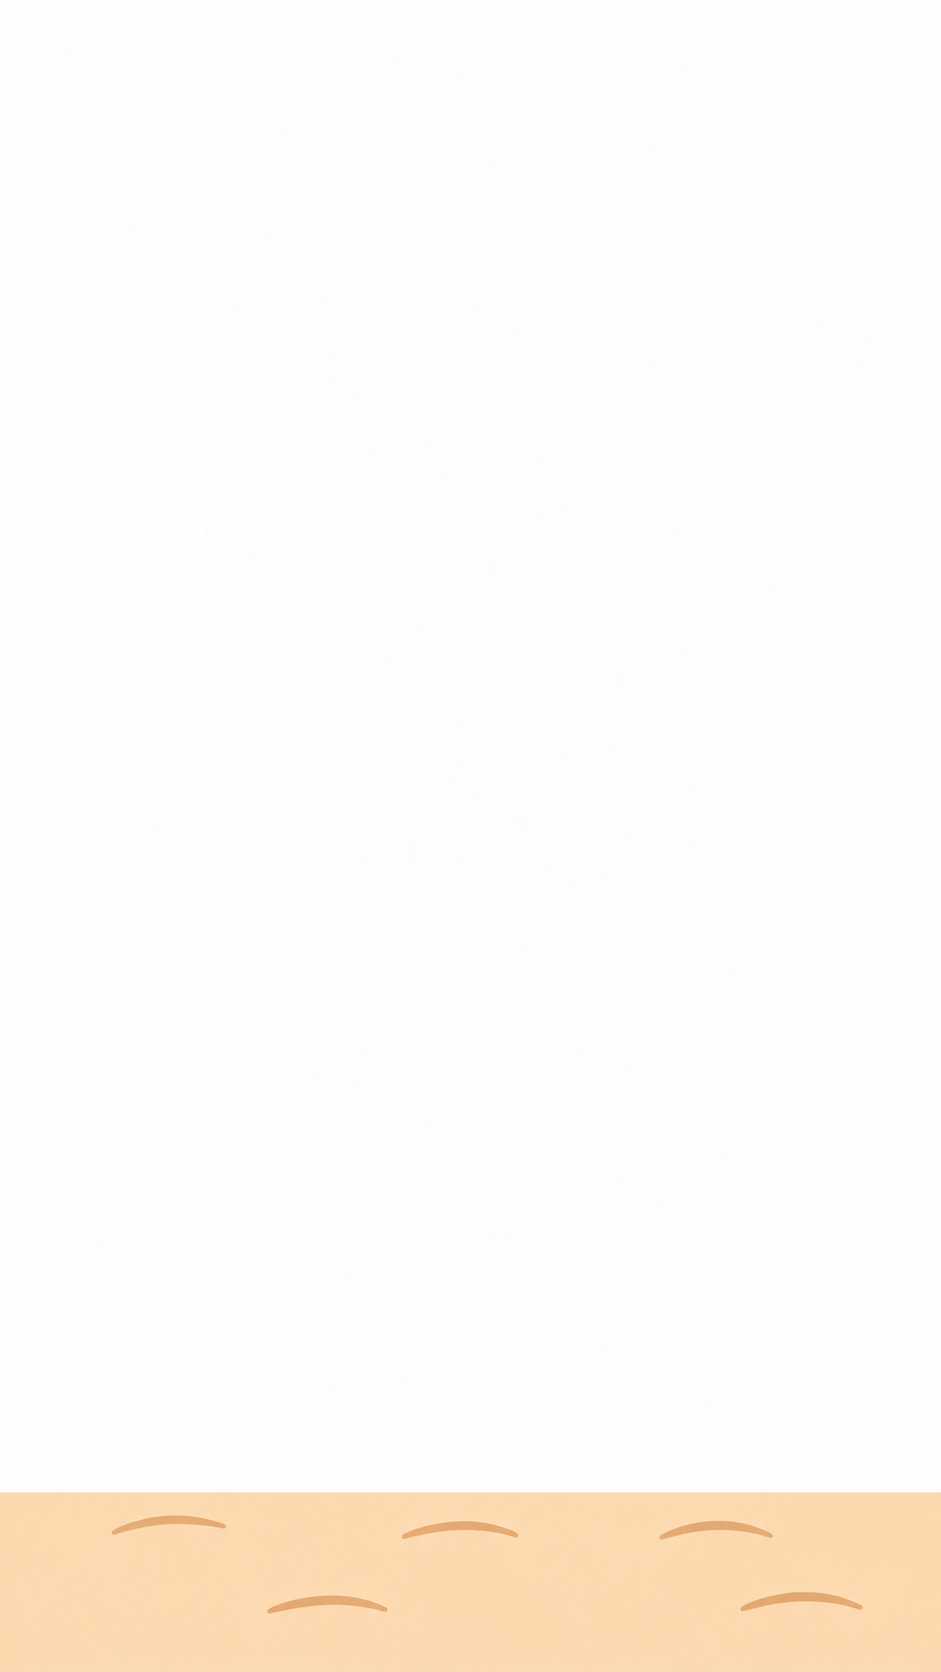
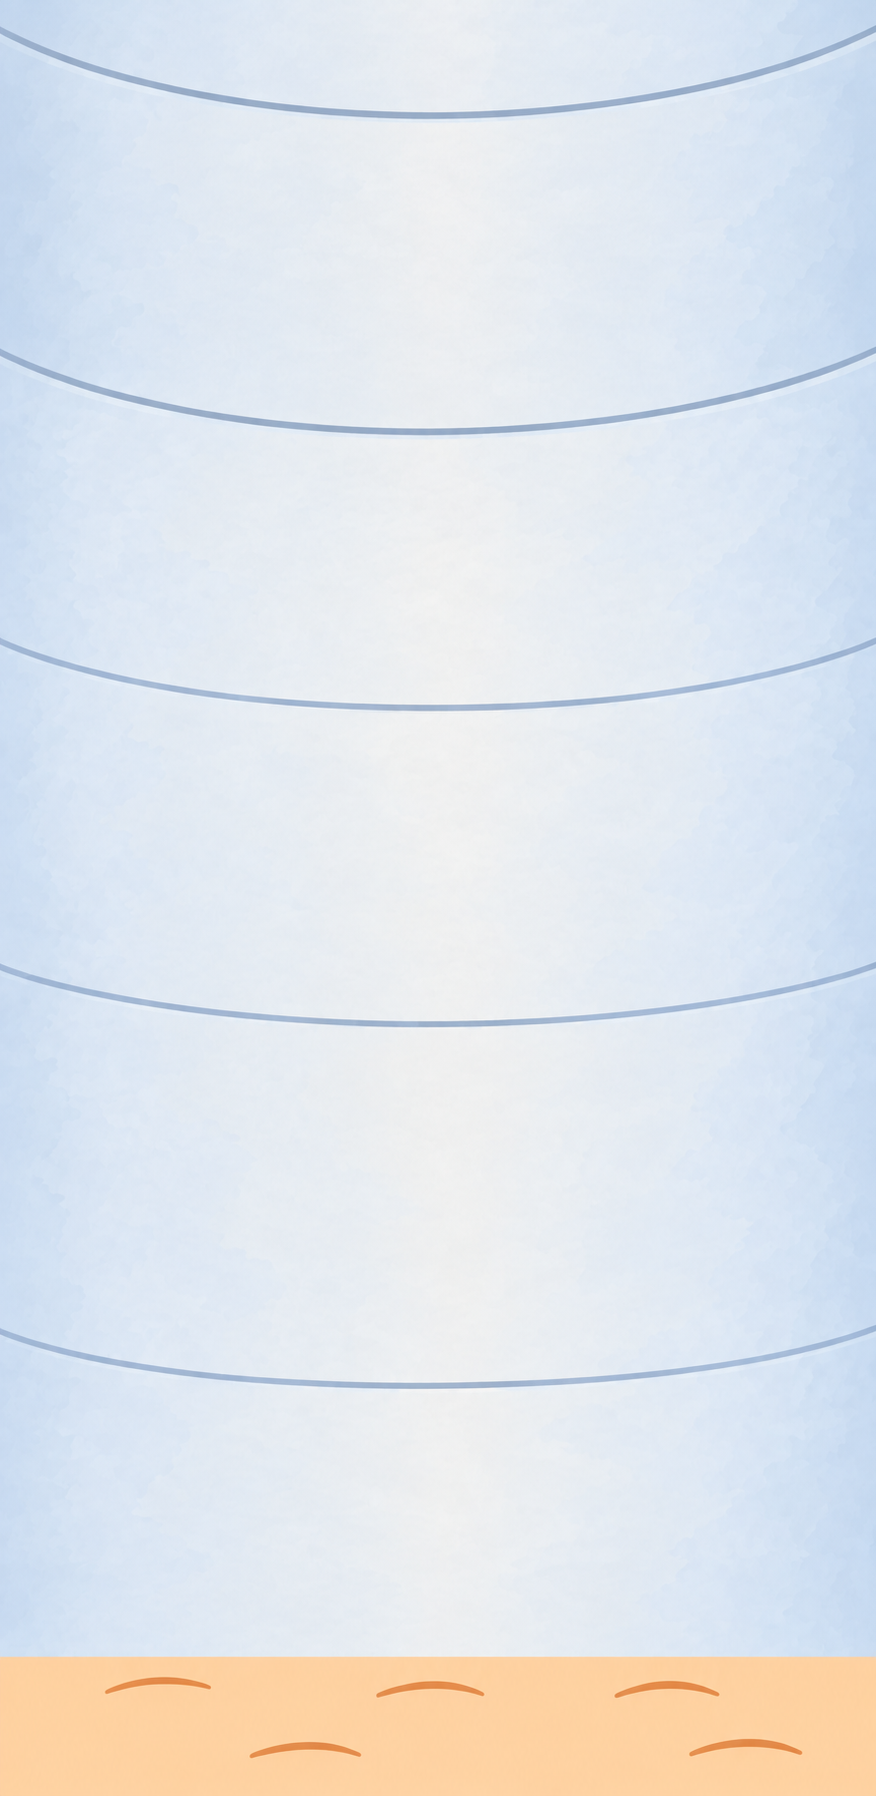
ui(game): 上部の帯にも缶の内側の背景を敷き、文字の後ろを薄い灰色にする
- ゲームの背景を、幅に合わせて下端をそろえる置き方にする。高さに左右されないので、
  ゲームの領域とその上の帯で同じ絵が同じ位置に出て、境目でずれない
- GameScene（共通）：上部の帯の後ろにも同じ背景を敷き、相手名・残り時間・DEMO の後ろに
  薄い灰色の板を付ける。帯をゲームと別の行にして文字拡大でも重ならない作りは維持
- 協力：背景を「レベル・魂」の行まで広げ、その表示の板も薄い灰色にする
- 背景画像はユーザーが差し替えた缶の内側の絵（tunaumi1/2）

diff --git a/lib/features/demo/game_scene.dart b/lib/features/demo/game_scene.dart
@@ -3,6 +3,7 @@ import 'package:flutter/material.dart';
 import '../../domain/models.dart';
 import '../cooperative/cooperative_game.dart';
 import '../duel/duel_game.dart';
+import '../duel/sea_background.dart';
 
 /// The scene fills the safe viewport. Status takes only its measured height;
 /// the game receives the remaining space so enlarged text cannot cover play.
@@ -27,69 +28,106 @@ class GameScene extends StatelessWidget {
     final cooperative = peer.team == self.team;
     return SizedBox.expand(
       key: const Key('game-surface'),
-      child: Column(
+      child: Stack(
+        fit: StackFit.expand,
         children: [
-          Padding(
-            key: const Key('game-status'),
-            padding: const EdgeInsets.fromLTRB(16, 8, 12, 8),
-            child: Column(
-              crossAxisAlignment: CrossAxisAlignment.start,
-              children: [
-                Row(
-                  crossAxisAlignment: CrossAxisAlignment.center,
+          // ゲームと同じ缶の内側の背景を、上部の帯の後ろにも敷く。背景は幅に合わせて
+          // 下端をそろえるので、ゲームが自分の領域に描く背景と境目でずれない。
+          const Positioned.fill(
+            child: IgnorePointer(child: SeaBackground(elapsed: Duration.zero)),
+          ),
+          Column(
+            children: [
+              Padding(
+                key: const Key('game-status'),
+                padding: const EdgeInsets.fromLTRB(12, 8, 12, 8),
+                child: Row(
+                  crossAxisAlignment: CrossAxisAlignment.start,
                   children: [
                     Expanded(
-                      child: Text(
-                        '${peer.profile.nickname}さんと${cooperative ? '協力' : '対戦'}',
-                        style: const TextStyle(fontWeight: FontWeight.bold),
+                      child: _Plate(
+                        child: Column(
+                          crossAxisAlignment: CrossAxisAlignment.start,
+                          children: [
+                            Text(
+                              '${peer.profile.nickname}さんと${cooperative ? '協力' : '対戦'}',
+                              style: const TextStyle(
+                                fontWeight: FontWeight.bold,
+                              ),
+                            ),
+                            Text(
+                              remainingLabel,
+                              key: const Key('remaining-time'),
+                              style: const TextStyle(color: Color(0xFF5C7772)),
+                            ),
+                          ],
+                        ),
                       ),
                     ),
                     const SizedBox(width: 8),
-                    Tooltip(
-                      message: 'デモ操作',
-                      child: TextButton(
-                        key: const Key('game-demo-menu'),
-                        onPressed: onDemoMenu,
-                        child: const Text('DEMO'),
+                    _Plate(
+                      padding: EdgeInsets.zero,
+                      child: Tooltip(
+                        message: 'デモ操作',
+                        child: TextButton(
+                          key: const Key('game-demo-menu'),
+                          onPressed: onDemoMenu,
+                          child: const Text('DEMO'),
+                        ),
                       ),
                     ),
                   ],
                 ),
-                Text(
-                  remainingLabel,
-                  key: const Key('remaining-time'),
-                  style: const TextStyle(color: Color(0xFF5C7772)),
+              ),
+              Expanded(
+                // Game painters may extend beyond their local origin (e.g. rope).
+                // Keep that paint inside the assigned area and off the header.
+                child: ClipRect(
+                  child: cooperative
+                      ? CooperativeGame(
+                          self: self,
+                          peer: peer,
+                          onCompleted: (result) => onCompleted(
+                            result == CooperativeGameResult.success
+                                ? Outcome.coopSuccess
+                                : Outcome.coopFailure,
+                          ),
+                        )
+                      : DuelGame(
+                          self: self,
+                          peer: peer,
+                          onCompleted: (result) => onCompleted(
+                            result == DuelGameResult.win
+                                ? Outcome.win
+                                : Outcome.loss,
+                          ),
+                        ),
                 ),
-              ],
-            ),
-          ),
-          Expanded(
-            // Game painters may extend beyond their local origin (e.g. rope).
-            // Keep that paint inside the assigned area and off the header.
-            child: ClipRect(
-              child: cooperative
-                  ? CooperativeGame(
-                      self: self,
-                      peer: peer,
-                      onCompleted: (result) => onCompleted(
-                        result == CooperativeGameResult.success
-                            ? Outcome.coopSuccess
-                            : Outcome.coopFailure,
-                      ),
-                    )
-                  : DuelGame(
-                      self: self,
-                      peer: peer,
-                      onCompleted: (result) => onCompleted(
-                        result == DuelGameResult.win
-                            ? Outcome.win
-                            : Outcome.loss,
-                      ),
-                    ),
-            ),
+              ),
+            ],
           ),
         ],
       ),
     );
   }
+}
+
+/// 上部の帯の文字の後ろに敷く、薄い灰色の板。背景の絵の上でも読めるようにする。
+class _Plate extends StatelessWidget {
+  const _Plate({
+    required this.child,
+    this.padding = const EdgeInsets.symmetric(horizontal: 10, vertical: 6),
+  });
+
+  final Widget child;
+  final EdgeInsetsGeometry padding;
+
+  @override
+  Widget build(BuildContext context) => DecoratedBox(
+    decoration: BoxDecoration(
+      color: const Color(0xCCE6E8EB),
+      borderRadius: BorderRadius.circular(12),
+    ),
+    child: Padding(padding: padding, child: child),
+  );
 }

diff --git a/lib/features/duel/sea_background.dart b/lib/features/duel/sea_background.dart
@@ -2,16 +2,24 @@ import 'dart:math';
 
 import 'package:flutter/material.dart';
 
-/// 対戦ゲームの背景。
+/// ゲームの背景（缶の内側と砂地）。対戦・協力と、ゲーム画面の上部の帯で共用する。
 ///
-/// ツナ海の2枚（砂地の波線の位置だけが違う）を交互にクロスフェードして、海底をゆらす。
+/// 2枚を交互にクロスフェードして、缶の内側をゆらす。
 /// 時刻は親のゲーム時計から受け取り、この部品はタイマーもTickerも持たない。
 /// 時計が止まっている間（スタート待ちなど）は画面の更新を要求しない。
+///
+/// 絵は置き場所の幅に合わせて拡大し、下端（砂地）をそろえて置く。高さには
+/// 左右されないので、幅と下端が同じ場所どうし（ゲームの領域と、その上の帯を
+/// 含む画面全体）では、同じ絵が同じ位置に出て、境目でずれない。絵より高い
+/// 場所では、上の余りを絵の上端の色で塗る。
 class SeaBackground extends StatelessWidget {
   const SeaBackground({super.key, required this.elapsed});
 
   static const assetA = 'assets/characters/tunaumi1.png';
   static const assetB = 'assets/characters/tunaumi2.png';
+
+  /// 絵の上端あたりの色。絵が届かない上の余りを塗る。
+  static const topColor = Color(0xFFE2E9F1);
 
   /// 1枚目から2枚目へ移り、1枚目へ戻るまでの一周の長さ。
   static const cycle = Duration(seconds: 3);
@@ -33,6 +41,7 @@ class SeaBackground extends StatelessWidget {
     return Stack(
       fit: StackFit.expand,
       children: [
+        const ColoredBox(color: topColor),
         const _SeaImage(asset: assetA),
         _SeaImage(asset: assetB, opacity: AlwaysStoppedAnimation(mix)),
       ],
@@ -50,8 +59,8 @@ class _SeaImage extends StatelessWidget {
   Widget build(BuildContext context) => Image.asset(
     asset,
     opacity: opacity,
-    fit: BoxFit.cover,
-    // 砂地を常に下端へ置き、縦横比が違うときは上と左右だけを切る。
+    // 幅に合わせ、砂地を常に下端へ置く。高い絵は上を切る。
+    fit: BoxFit.fitWidth,
     alignment: Alignment.bottomCenter,
     // 読み込みに失敗したら例外が出て気づけるよう、代わりの表示は付けない。
     excludeFromSemantics: true,

diff --git a/lib/features/cooperative/cooperative_game.dart b/lib/features/cooperative/cooperative_game.dart
@@ -2,6 +2,7 @@ import 'package:flutter/material.dart';
 import 'package:flutter/scheduler.dart';
 
 import '../../domain/models.dart';
+import '../duel/sea_background.dart';
 import 'soul_course.dart';
 import 'soul_stage.dart';
 
@@ -195,6 +196,9 @@ class _CooperativeGameState extends State<CooperativeGame>
         child: Stack(
           fit: StackFit.expand,
           children: [
+            // 背景は「レベル・魂」の行も含めて敷く。幅に合わせて下端をそろえるので、
+            // 上の共通の帯に敷いた同じ背景と、境目でずれずにつながる。
+            Positioned.fill(child: SeaBackground(elapsed: _elapsed)),
             Column(
               crossAxisAlignment: CrossAxisAlignment.stretch,
               children: [
@@ -229,7 +233,6 @@ class _CooperativeGameState extends State<CooperativeGame>
                                       _phase == _Phase.intro
                                   ? Duration.zero
                                   : _runTime,
-                              elapsed: _elapsed,
                               flashText: showFlash ? _flashText : null,
                               flashHop: _flashHop,
                             ),
@@ -354,8 +357,9 @@ class _Hud extends StatelessWidget {
 
   @override
   Widget build(BuildContext context) => DecoratedBox(
+    // 背景の絵の上でも読めるよう、文字の後ろに薄い灰色を敷く。
     decoration: BoxDecoration(
-      color: Colors.white.withValues(alpha: 0.85),
+      color: const Color(0xCCE6E8EB),
       borderRadius: BorderRadius.circular(12),
     ),
     child: Padding(

diff --git a/lib/features/cooperative/soul_stage.dart b/lib/features/cooperative/soul_stage.dart
@@ -3,7 +3,6 @@ import 'dart:math';
 import 'package:flutter/material.dart';
 
 import '../../domain/models.dart';
-import '../duel/sea_background.dart';
 import 'soul_course.dart';
 import 'soul_placement.dart';
 
@@ -158,7 +157,6 @@ class SoulStage extends StatelessWidget {
     required this.peerName,
     required this.run,
     required this.runTime,
-    required this.elapsed,
     this.flashText,
     this.flashHop = 1,
     this.placement = SoulPlacement.standard,
@@ -174,9 +172,6 @@ class SoulStage extends StatelessWidget {
 
   /// 魂を放してからの経過時間。放す前は0以下。
   final Duration runTime;
-
-  /// 背景のゆれに使うゲーム時計。止まっているときは動かない。
-  final Duration elapsed;
 
   /// 運べたときに缶の近くへ出す短い言葉と、その缶。
   final String? flashText;
@@ -196,7 +191,6 @@ class SoulStage extends StatelessWidget {
         return Stack(
           clipBehavior: Clip.hardEdge,
           children: [
-            Positioned.fill(child: SeaBackground(elapsed: elapsed)),
             _Hole(layout: layout),
             for (var hop = 1; hop <= SoulRun.hops; hop++)
               _Can(layout: layout, hop: hop),

diff --git a/docs/assets.md b/docs/assets.md
@@ -6,7 +6,7 @@
 | 普通の子分 | `assets/characters/kobun_normal.png` | ユーザー提供のv2原画から白背景を透過したもの |
 | 骨の子分 | `assets/characters/kobun_bone.png` | ユーザー提供のv2原画から白背景を透過したもの。「ショBONE」は骨子分の表現 |
 | 対戦の吊られた魚（赤・青） | `assets/characters/hikareruaka.png`・`hikareruao.png` | ユーザー提供。対戦ゲームで自分・相手のチーム色の魚として使用 |
-| ゲームの背景（海と砂地） | `assets/characters/tunaumi1.png`・`tunaumi2.png` | ユーザー提供。2枚を交互に重ねて砂地をゆらす。対戦・協力で共用 |
+| ゲームの背景（缶の内側と砂地） | `assets/characters/tunaumi1.png`・`tunaumi2.png` | ユーザー提供（2026-09-27に缶の内側の絵へ差し替え）。2枚を交互に重ねてゆらす。幅に合わせて下端をそろえ、対戦・協力とゲーム画面上部の帯で共用 |
 | 協力の魂 | `assets/characters/tamashii.png` | ユーザー提供。協力ゲームで運ぶ魂 |
 | 協力のツナ缶・空き缶 | `assets/characters/tunakanaka.png`・`hadakan.png` | ユーザー提供。魂を運ぶ缶と、最後に魂が入る空き缶 |
 | 手書きラフ・旧生成画像 | `docs/tsunagun/references/` | 設計の参照用。アプリへ全量同梱しない |
